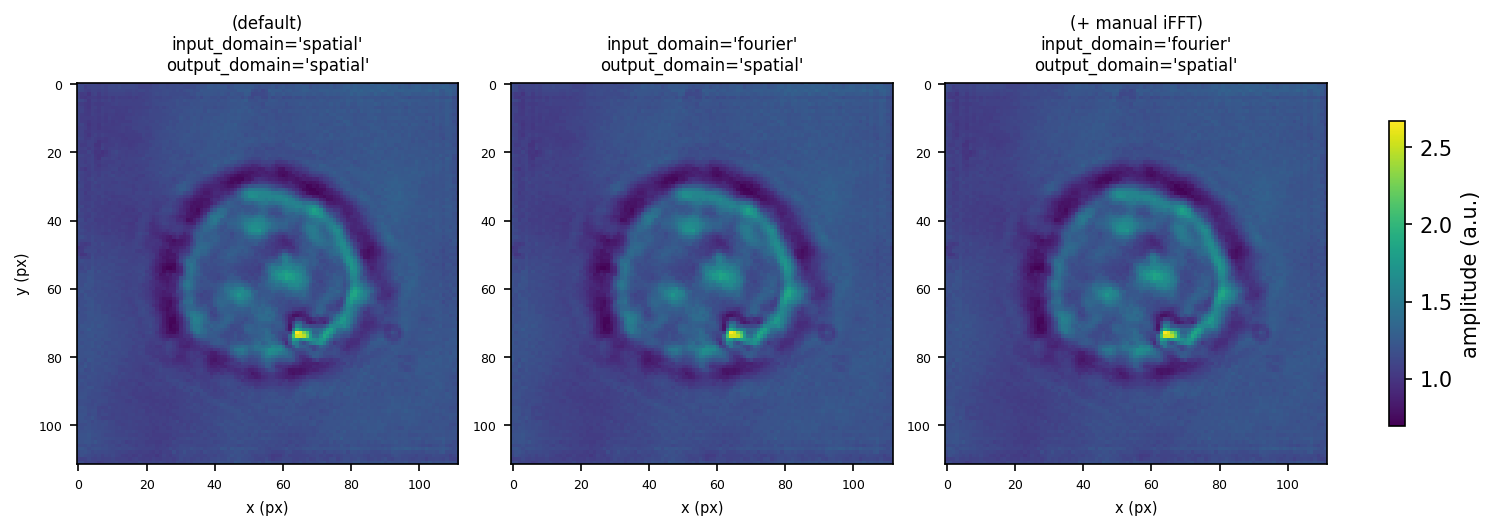
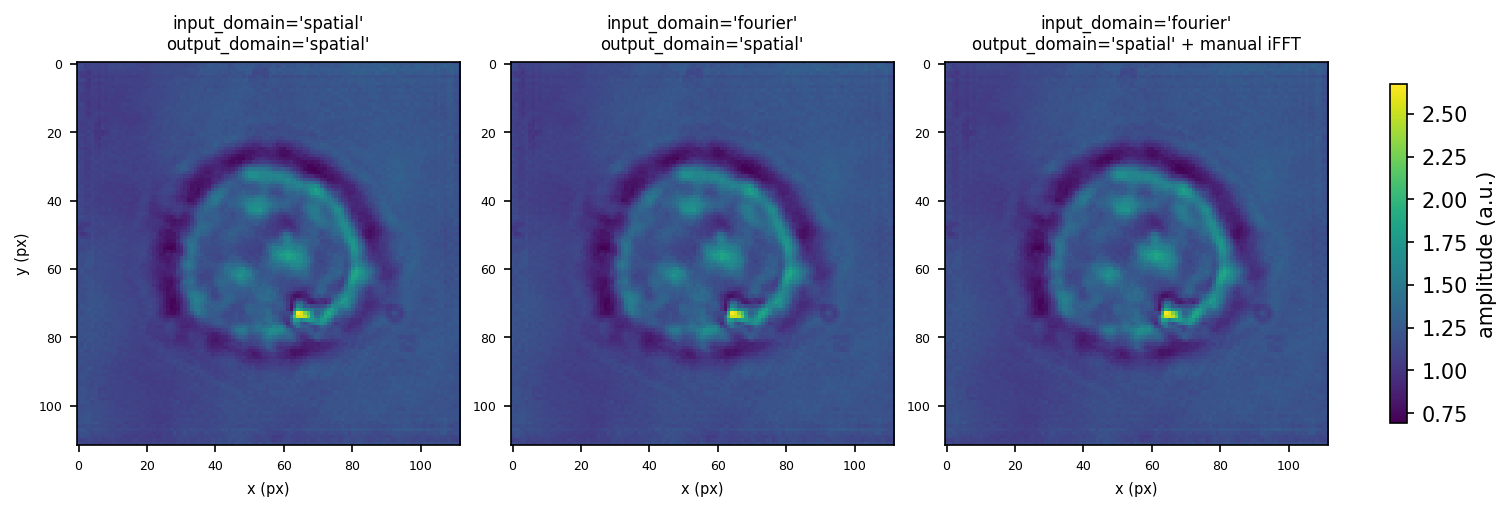
docs: fix the example title

diff --git a/examples/input_output_domains.py b/examples/input_output_domains.py
@@ -1,7 +1,7 @@
 """Specifying `input_domain` / `output_domain` in nrefocus.
 
 As of version 0.6.2, users can specify in which domain the input and output
-data exists. The options are `'spatial'` (default, legacy behaviour) and
+data exists. The options are `'spatial'` (default behaviour) and
 `'fourier'`. These can be used in conjunction with
 `qpretrieve`'s `'output_domain'` to reduce the number of Fourier
 transforms in a given pipeline (see https://qpretrieve.readthedocs.io/).
@@ -54,9 +54,9 @@ amp = [
     np.abs(refocused_from_fft_out),
 ]
 titles = [
-    "(default)\ninput_domain='spatial'\noutput_domain='spatial'",
-    "\ninput_domain='fourier'\noutput_domain='spatial'",
-    "(+ manual iFFT)\ninput_domain='fourier'\noutput_domain='spatial'",
+    "input_domain='spatial'\noutput_domain='spatial'",
+    "input_domain='fourier'\noutput_domain='spatial'",
+    "input_domain='fourier'\noutput_domain='spatial' + manual iFFT",
 ]
 
 vmin = min(a.min() for a in amp)

diff --git a/tests/test_refocus_artifact.py b/tests/test_refocus_artifact.py
@@ -36,7 +36,7 @@ def test_refocus_artifact_fourier_output_returns_shifted_fft(dummy_field):
                        rtol=1e-12, atol=1e-12)
 
 
-def test_refocus_artifact_matches_legacy_field_path(dummy_field):
+def test_refocus_artifact_matches_default_field_path(dummy_field):
     """Old and new pipelines should give the same results"""
     artifact = DummyArtifact(dummy_field)
     kwargs = dict(d=2.13, nm=1.533, res=8.25,
@@ -50,7 +50,7 @@ def test_refocus_artifact_matches_legacy_field_path(dummy_field):
                        rtol=1e-12, atol=1e-12)
 
 
-def test_refocus_artifact_matches_legacy_field_real_data(cell_field):
+def test_refocus_artifact_matches_default_field_real_data(cell_field):
     """Old and new pipelines should give the same results"""
     artifact = DummyArtifact(cell_field)
     kwargs = dict(d=2.13, nm=1.533, res=8.25,